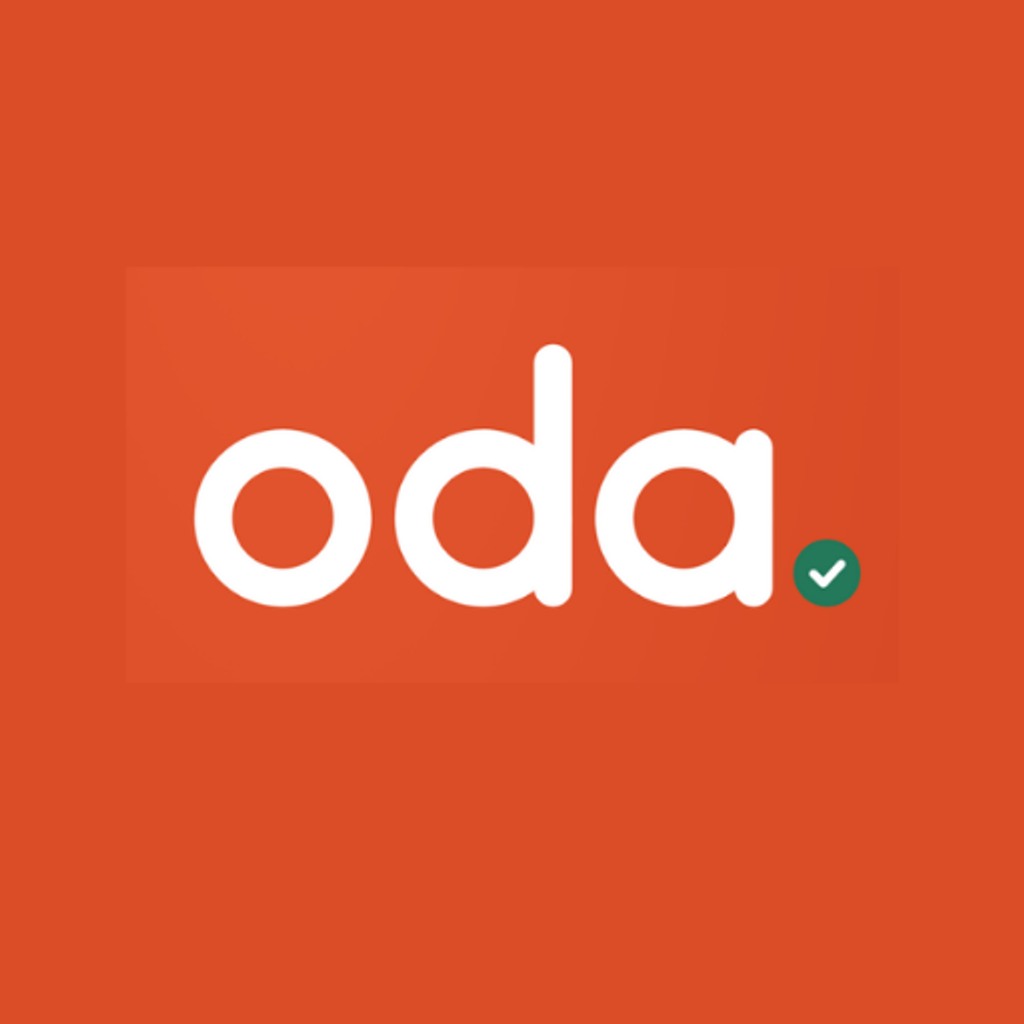
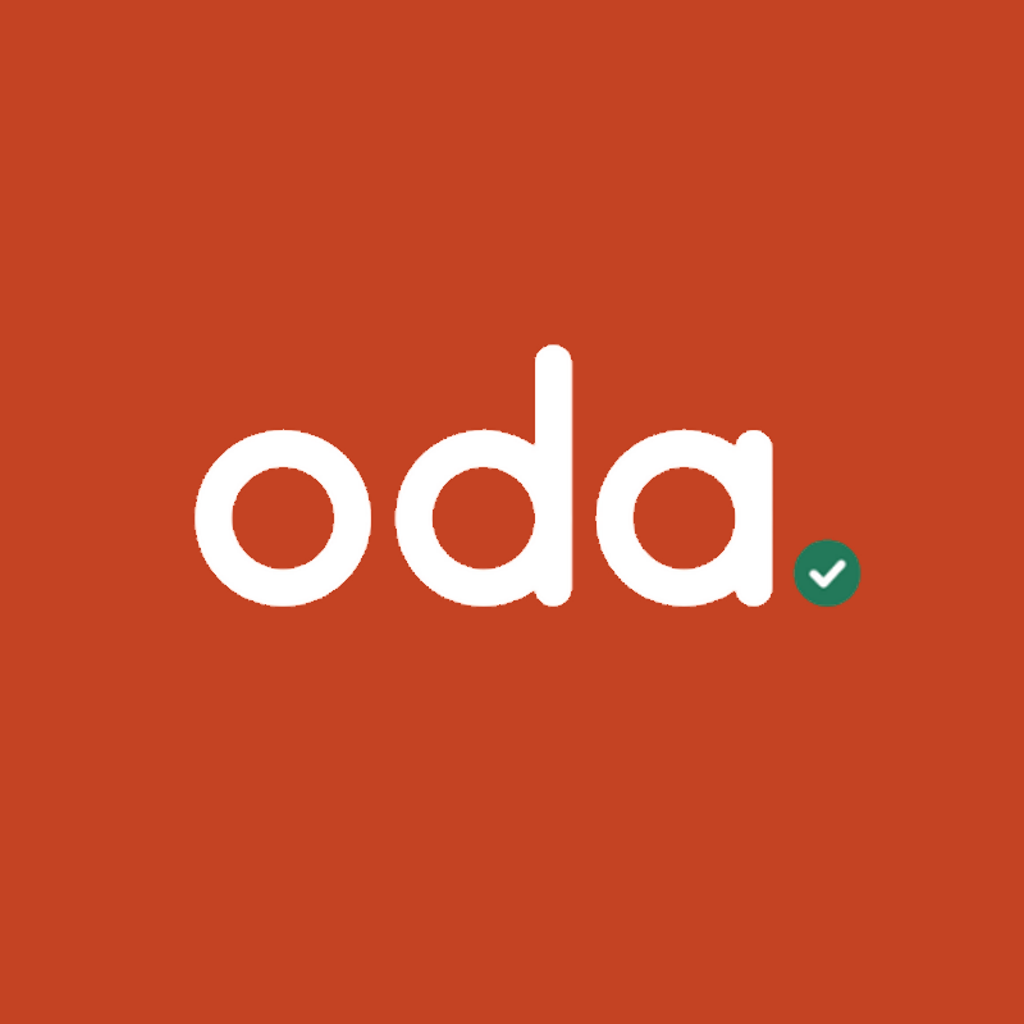
M11 CP3: production app config (0.4.0, preview app id, brand colour, EAS production)
- app.config.ts: APP_VARIANT=preview -> "oda staging" com.mugulabs.oda.preview (D6); native
  colours from @oda/ui-tokens (#C44323); version 0.4.0, native-runtime.json rewritten.
- eas.json: production profile (app-bundle, channel/environment production, autoIncrement,
  both CPU types); preview sets APP_VARIANT.
- scripts/draw-brand-assets.mjs (sharp dev dependency, linked offline) redraws icon,
  adaptive icon and splash.
- eas-update-production workflow; eas-update-publish.mjs takes CHANNEL.
- Decision #97, progress.

Claude-Session: https://claude.ai/code/session_01J7yWJmCu7ZFnoUhRDS5Et6

Changed region(s): [[0.125, 0.25, 0.7188, 0.6875]]

diff --git a/apps/seller/app.config.ts b/apps/seller/app.config.ts
@@ -1,31 +1,42 @@
+import { colors } from '@oda/ui-tokens/tokens';
 import type { ExpoConfig } from 'expo/config';
 
 // Android only, light theme only (docs/decisions.md #8).
 // EAS project created by `eas init` (not a secret).
 const easProjectId = '10f06155-8e5f-441e-b95e-7af4f4c86d38';
 
+// Preview (staging) builds are a separate app, "oda staging" (`com.mugulabs.oda.preview`), so
+// it installs next to the Play app on one phone (decision #93 D6). EAS sets APP_VARIANT in the
+// preview build profile (eas.json) and when publishing preview updates; everything else
+// (production, development, local) is the real app.
+const preview = process.env.APP_VARIANT === 'preview';
+
+// Native colours come from the shared tokens (decision #88: #C44323), never written here.
+const brand = colors.primary;
+
 const config: ExpoConfig = {
-  name: 'oda',
+  name: preview ? 'oda staging' : 'oda',
   slug: 'oda',
   scheme: 'oda',
   // 0.2.0: native modules for onboarding photos and later milestones (decision #53).
   // 0.3.0: push (expo-notifications + Firebase) and Sentry, inactive until M10 (decision #70).
   // 0.3.1: Expo SDK 57 patch releases (decisions #80, #81 f).
+  // 0.4.0: production build (M11 CP3): brand colour #C44323, separate preview app id.
   // Bump on every native change (decision #48).
-  version: '0.3.1',
+  version: '0.4.0',
   orientation: 'portrait',
   userInterfaceStyle: 'light',
   platforms: ['android'],
   icon: './assets/icon.png',
   android: {
-    package: 'com.mugulabs.oda',
+    package: preview ? 'com.mugulabs.oda.preview' : 'com.mugulabs.oda',
     // Firebase config for push (FCM). Never committed (the repo is public): the laptop keeps
     // apps/seller/google-services.json; EAS builds get it from the file variable
     // GOOGLE_SERVICES_JSON (decision #70).
     googleServicesFile: process.env.GOOGLE_SERVICES_JSON ?? './google-services.json',
     adaptiveIcon: {
       foregroundImage: './assets/adaptive-icon.png',
-      backgroundColor: '#D94A27',
+      backgroundColor: brand,
     },
   },
   plugins: [
@@ -39,12 +50,12 @@ const config: ExpoConfig = {
       {
         // Android draws the status-bar icon in one colour: a white "o" with the logo's dot.
         icon: './assets/notification-icon.png',
-        color: '#D94A27',
+        color: brand,
         defaultChannel: 'orders',
       },
     ],
-    // @sentry/react-native is installed for M10 but stays inactive: no config plugin (so no
-    // source-map upload step), no DSN, Sentry.init is never called, nothing is sent.
+    // @sentry/react-native has no config plugin: source maps are uploaded by the eas-update
+    // workflows (decision #90); the DSN comes from the EAS environment (src/sentry.ts).
     [
       'expo-image-picker',
       {
@@ -62,7 +73,7 @@ const config: ExpoConfig = {
         // inside the 96dp safe radius with ~12% margin (200dp clipped the "o" and tick).
         imageWidth: 160,
         resizeMode: 'contain',
-        backgroundColor: '#D94A27',
+        backgroundColor: brand,
       },
     ],
   ],

diff --git a/apps/seller/src/sentry.ts b/apps/seller/src/sentry.ts
@@ -1,5 +1,5 @@
 // Error reporting with Sentry (M10 CP4, decisions #70, #81 b, #85). Off unless the build has
-// EXPO_PUBLIC_SENTRY_DSN (the EAS "preview" environment; a DSN is a public key, not a secret)
+// EXPO_PUBLIC_SENTRY_DSN (EAS "preview" and "production" environments; a DSN is a public key)
 // and is not a development build. sendDefaultPii is off and every event and breadcrumb goes
 // through the shared scrubber first (no emails, phones, M-Pesa codes, tokens, bodies). The
 // native module is in build 0.3.0 already; this is JavaScript only (an EAS Update).
@@ -27,7 +27,7 @@ export function initSentry(): void {
   Sentry.init({
     dsn: DSN!,
     sendDefaultPii: false,
-    environment: channel,
+    environment: channel, // preview or production (the EAS Update channel)
     // Errors point at the exact JavaScript: the native version plus the EAS Update id (source
     // maps for each update are uploaded under the same release and dist).
     release: `oda-seller@${version}`,

diff --git a/docs/decisions.md b/docs/decisions.md
@@ -117,3 +117,4 @@ Append-only. Newest at the bottom. Format: date · decision · why · consequenc
 94. **2026-10-09 · M11 CP2: how production's config, secrets and workflows are laid out (refines #93 D1, D3, D11; amends the plan's secret names).** (a) **Secrets by name, never by fallback.** GitHub falls back from an Environment secret to a repository secret of the same name, and staging's secrets are repository secrets (GitHub can't move a secret's value, so they stay). So every production secret has its own name starting with `PRODUCTION_` (`PRODUCTION_NEON_DATABASE_URL_UNPOOLED`, `PRODUCTION_ODA_APP_DB_PASSWORD`, `PRODUCTION_CRON_SECRET`, `PRODUCTION_OPS_SECRET`, `PRODUCTION_BACKUP_BLOB_READ_WRITE_TOKEN`, `PRODUCTION_BACKUP_PASSPHRASE`, `PRODUCTION_VERCEL_DEPLOY_HOOK`) and lives only in the Environment **`production-jobs`**. Workflows pick the name (`secrets[target == 'production' && 'PRODUCTION_X' || 'X']`), so a missing production secret is empty and the run fails, instead of silently using staging's value. (b) **Environments:** `staging` holds the variable `BASE_URL` (`https://oda-eta.vercel.app`) and `ODA_APP_DB_PASSWORD`; `production-jobs` (deployments from `main` only, no approval) holds `BASE_URL` (`https://oda.mugu-labs.com`) and every production secret; **`production-release` holds no secrets** and only gates release-production with the owner's approval (a separate approval job, then the work in `production-jobs`); it is not called `production` because Vercel's GitHub deployments already created "Production" and Environment names ignore case. So production secrets are entered in one place. eas-update-production (CP3) uses `production-release` for its approval too. (c) **Workflows:** every address comes from the Environment's `BASE_URL`. The scheduled jobs (expire, digest, purge, backup, restore check) run a leg per target; production's legs run only once the repository variable **`PRODUCTION_LIVE`** is `true` (set after the first release), so nothing turns red before production exists. The ops tools (shop-suspend, review-remove, sentry-test) and db-app-role take a `staging` / `production` choice (staging by default). `backup-staging.yml` becomes **`backup.yml`** (staging 02:30, production 02:50 Nairobi, prefixes `staging/` and `production/`, `BACKUP_TARGET`). Migrate-then-deploy is one reusable **`deploy.yml`**, called by migrate-staging and by the new **release-production** (checks the commit is on `main`, CI passed on it and migrate-staging succeeded for it; owner approval; fast-forwards `production`; migrates production, re-applies the app role's grants, Deploy Hook, waits for `/api/health`). **`scripts/check-workflows.mjs`** (CI and `check:all`) fails on a written address, a secret fallback, a production secret not named `PRODUCTION_…`, or a staging-only tool (demo seed, backdating, regression, Sitting 1 clean-up) that isn't pinned to the `staging` Environment or mentions production. (d) **Vercel:** `vercel.json` stops pushes to `main` and `production` from building on their own (Deploy Hooks only) and runs `scripts/vercel-ignore.mjs`, which skips every non-Production build of the project whose `ODA_VERCEL_PROJECT` is `production`, so oda-production never builds branch previews. (e) **Which deployment this is:** `NEXT_PUBLIC_ODA_ENV` = `production` on oda-production; unset elsewhere, where Vercel Production counts as staging (`server/deployment.ts`). Sentry's environment becomes `production` / `staging` / `preview` / `local` (staging's events were "production" until now). Only production is indexable: staging and previews send `X-Robots-Tag: noindex, nofollow` on every answer. (f) **Production config guard:** the build (next.config.ts on Vercel) and the server start (instrumentation.ts) refuse production unless `PUBLIC_SHOP_BASE_URL` and `BETTER_AUTH_URL` are `https://oda.mugu-labs.com`, storage is Vercel Blob, email goes through Resend, the Sentry DSN and every server secret (`BETTER_AUTH_SECRET`, `CRON_SECRET`, `OPS_SECRET`, `EXPO_ACCESS_TOKEN`) are set, and `DATABASE_URL` is `oda_app` on Neon's pooled host (S11). A failed build leaves the running deployment up. Any other deployment that claims production's address is refused too. The CSP already takes its image and upload origins from the configured storage and Sentry DSN (#81 c). (g) **Blob stop (#93 D1):** every remote store call goes through one guard; a refusal, quota stop or timeout becomes **503 `storage_unavailable`** "Photo uploads are paused for now. Try again later." on every upload route (product, logo, feedback screenshot, review photo) and on saving a photo, never a 500. A new product may then be saved **without a photo** only with `photoLater: true` and no photos, in onboarding (the approved change) and, for the same reason, in the product editor; the app offers it only after the server said uploads are paused. While a live product has no photo, the checklist shows an 8th item, **"Add a product photo"** (open; it opens the Shop tab, where the product already shows "Add photo"), so "Finish your shop" can't complete. Buyer pages show the beige placeholder tile when a photo doesn't load (`components/SafeImg.tsx`). The purge keeps a deleted account for the next run when its files can't be listed and skips the unreferenced sweep (`storageUnavailable` in its summary); failed deletes stay queued as before. A backup or restore check whose store refuses exits non-zero (red, GitHub emails the owner). Link-preview images (Open Graph) still need the photo; a stopped store makes those previews fail, not the pages.
 95. **2026-10-09 · M11 CP2: releases on GitHub Free, the `production` branch's start, Vercel by CLI, D13 worst case (owner's answers; amends #93 D3/D11 and #94 b).** (a) **Approval without required reviewers (owner's choice A, free).** GitHub Free can't require a reviewer on an Environment of a private repository, nor protect a branch with a ruleset (both refused: "Upgrade to GitHub Pro"). So the approval is **who starts release-production**: only the owner, or Claude only on the owner's explicit go for that one release. The `production-release` job stays (it still allows `main` only, and gets a reviewer if the plan ever moves to Pro). (b) **`production-guard.yml`** makes a hand change of `production` visible instead: on a push to the branch, every hour and by hand, it reads the branch's activity and turns red (GitHub emails the owner) on any update, force push or deletion that isn't a `push` by `github-actions[bot]` (release-production's GITHUB_TOKEN; its pushes start no workflow, so the hourly run is the backstop). (c) **The branch's start:** Vercel refuses a production branch or a Deploy Hook for a branch that doesn't exist, and the laptop isn't allowed to create it, so the **owner created `production` from `main` at `68599a6`** (the commit staging ran: CI and migrate-staging green) on 2026-10-09 15:16 UTC. That one creation (activity 45975484135) is the guard's only exception; nothing was deployed by it (git deploys of `production` are off, #94 d). (d) **Vercel by the laptop's CLI (owner's yes):** Claude created the project `oda-production` (repository `dennismugu7/oda`, root `apps/web`, Node 24.x, fra1, production branch `production`, settings as staging's), its Deploy Hook (into `PRODUCTION_VERCEL_DEPLOY_HOOK`), the Blob stores `oda-production-images` (public, connected to Production), `oda-production-feedback` (private, connected to Production with the prefix `FEEDBACK_BLOB`) and `oda-production-backups` (private, connected to nothing; its token is copied by the owner from the dashboard into `PRODUCTION_BACKUP_BLOB_READ_WRITE_TOKEN`, because the CLI can't read a store's token), the domain `oda.mugu-labs.com`, the plain settings and the generated secrets (`BETTER_AUTH_SECRET`, `CRON_SECRET`, `OPS_SECRET` in Vercel; `PRODUCTION_CRON_SECRET`, `PRODUCTION_OPS_SECRET`, `PRODUCTION_ODA_APP_DB_PASSWORD` in `production-jobs`), all piped without printing. The owner keeps Neon, the Cloudflare DNS record, the Resend key, Sentry, the backup passphrase and the Expo token. (e) **D13 is still open:** plan for a **personal** Play developer account (closed testing with at least 12 testers for 14 days before production access) as the worst case; the owner confirms the account type before CP4. (f) **Found on this PR (oda-production's first build):** Vercel made a PR branch's build oda-production's *Production* deployment (a project's first deployment is Production whatever its branch). The config guard stopped it (nothing was live; the domain had no DNS yet). Now `vercel-ignore.mjs` builds oda-production only when the branch is `production` **and** the target is Production, and the guard refuses any other branch (`VERCEL_GIT_COMMIT_REF`). The same log showed Turborepo hiding unlisted variables from the build, so the guard would have failed even a correctly configured production: `turbo.json` now passes every variable the guard reads (`DEPLOYMENT_CHECK_ENV`; a test keeps the two in sync), secrets as `passThroughEnv` (not in the cache key).
 96. **2026-10-10 · Shops stay out of search engines until the public launch (owner, at review stop B; refines #94 e).** Until the owner says oda is launching publicly, production sends `X-Robots-Tag: noindex, nofollow` on every page except the landing page, `/privacy` and `/terms` (`SITE_PAGES`), so shop and product pages (and every other page) aren't indexed during closed testing. **One setting flips it:** `ODA_SHOPS_INDEXABLE=true` on Vercel oda-production (Production), then a redeploy (Actions → release-production, which may release the same commit again). It is read per request by `proxy.ts` (`pageRobotsTag()` in `server/deployment.ts`); any other value, or unset, keeps shops out. Staging and previews keep `noindex` on everything (next.config.ts) whatever the setting. `robots.txt` doesn't block shop pages, so crawlers can see the `noindex`. Launch checklist **L2** in `docs/m11-plan.md`.
+97. **2026-10-10 · M11 CP3: the production app build's config (refines #93 D6, D7, D11; #88; #90).** (a) **Two apps:** `APP_VARIANT=preview` (set by eas.json's `preview` profile and by the publish script for preview updates) makes the app "oda staging" with id `com.mugulabs.oda.preview`; everything else is "oda" `com.mugulabs.oda` (production, development, local). The 0.3.1 phone app (`com.mugulabs.oda`, preview channel) keeps working but gets no updates for 0.4.0, and must be uninstalled before the Play app (same id, different signing key) is installed in CP4. (b) **eas.json `production`:** `app-bundle`, channel and EAS environment `production`, `autoIncrement` (versionCode from EAS, `appVersionSource: remote`), no `reactNativeArchitectures` override (so arm64-v8a and armeabi-v7a); `preview` keeps arm64-v8a only. (c) **EAS environment `production`:** `EXPO_PUBLIC_API_URL` and `EXPO_PUBLIC_SHOP_BASE_URL` = `https://oda.mugu-labs.com`, `EXPO_PUBLIC_SENTRY_DSN` (oda-seller; the app reports its update channel as Sentry's environment, so `production`); `GOOGLE_SERVICES_JSON` is the owner's (a Firebase file listing both app ids). (d) **Native colours from tokens:** `app.config.ts` reads `colors.primary` through a new `@oda/ui-tokens/tokens` export (Node can load that file directly when Expo reads the config); `scripts/draw-brand-assets.mjs` redraws `icon.png` (solid primary, wordmark at the old size, without the old lighter rectangle), `adaptive-icon.png` and `splash-icon.png` (edge pixels only) with **sharp 0.35.5**, now a dev dependency of `apps/seller`, linked offline from the version already installed (no download). (e) **Version 0.4.0**, runtime 0.4.0. (f) **`eas-update-production.yml`:** like eas-update-preview but `main` only, on a commit CI passed, through the `production-release` job, channel and environment `production`; started only by the owner (or Claude on the owner's go), as releases (#95 a). `scripts/eas-update-publish.mjs` takes `CHANNEL` (preview default).

diff --git a/docs/progress.md b/docs/progress.md
@@ -27,6 +27,14 @@ Newest entries at the top.
 - Carried-forward list: in the M8 gate entry below.
 - Owner rules: `CLAUDE.md` → Working style.
 
+## 2026-10-10 · M11 CP3 part 1: search engines, app config for the production build
+
+**Review stop B passed** (owner, 2026-10-10), with one change: shops stay out of search engines until the public launch (PR #86, decision #96, launch checklist L2; production gets it with its next release).
+
+**App config (this PR; decision #97):** preview builds become "oda staging" `com.mugulabs.oda.preview` (D6); eas.json `production` profile (AAB, both CPU types, channel `production`, versionCode from EAS); native colours from `@oda/ui-tokens` (#C44323) and the icon, adaptive icon and splash redrawn by `scripts/draw-brand-assets.mjs` (sharp, linked offline); version 0.4.0 with `native-runtime.json` rewritten; EAS environment `production` (three public values, set by Claude); workflow `eas-update-production`. Local checks: format, lint, typecheck, workflows, seller tests 113, ui-tokens tests, `deps:check` (offline) all pass; database tests and the Android bundle run in CI.
+
+**Open (owner):** decisions for the privacy/terms drafts (operator name, retention gaps found in the code, checkout wording); the Firebase step for `com.mugulabs.oda.preview`; a go for `pnpm audit --prod`, online expo-doctor and the two EAS builds.
+
 ## 2026-10-09 · M11 CP2 part 2: production setup (owner steps 1–2, Vercel by CLI, production-guard)
 
 **Owner's answers (decision #95):** A, free: only the owner starts release-production (Claude only on the owner's go for that release), plus a guard on the `production` branch; yes to Vercel by the laptop's CLI; D13 open, plan for a personal Play account.
